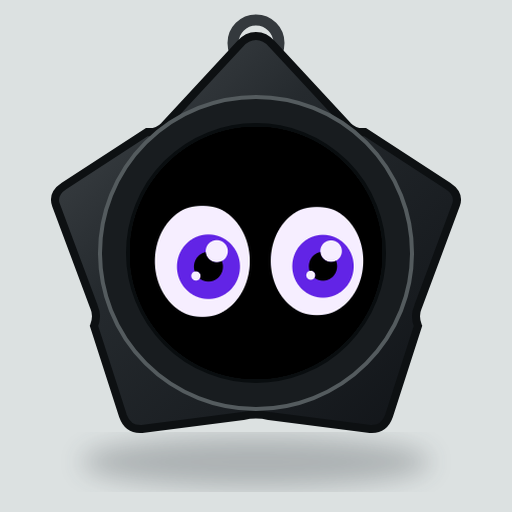
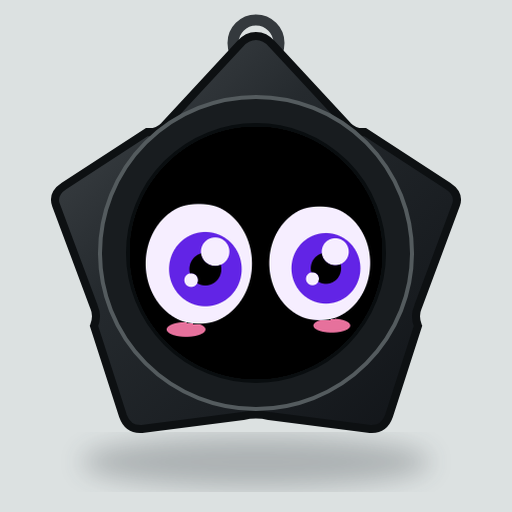
Bigger, rounder, cuter eyes
- Eyes about 13% wider and 9% taller, nearly round, set a little lower
  and closer to the bezel (safe margin 4% of the screen).
- Bigger irises and catch-lights.
- A small blush at rest that grows when happy, petted or in love and
  fades when sad or cross; cheeks sit just below the eyes.

Claude-Session: https://claude.ai/code/session_01QkMyhmNvo3MfBaVS2YuhnD

Changed region(s): [[0.2812, 0.375, 0.5312, 0.6562], [0.5312, 0.4062, 0.75, 0.6562], [0.4375, 0.4062, 0.4688, 0.4375]]

diff --git a/StarFace/StarFace/FaceConfig.h b/StarFace/StarFace/FaceConfig.h
@@ -19,21 +19,22 @@
 static constexpr uint32_t EYE_COLOR = 0xF2ECFF;     // the eyes (and catch-lights): soft lilac white
 static constexpr uint32_t PUPIL_COLOR = 0x6526E0;   // the big irises, hearts and spirals: purple
 static constexpr bool ANTI_ALIAS = true;            // smooth vector edges (false: hard pixel edges)
-// Rosy cheeks appear under the eyes when it is happy, petted or in love (the
-// one extra colour; set CHEEK_BLUSH = false for strictly two colours).
+// Rosy cheeks under the eyes: a small blush at rest that grows when it is
+// happy, petted or in love, and fades when it is sad or cross (the one extra
+// colour; set CHEEK_BLUSH = false for strictly two colours).
 static constexpr bool CHEEK_BLUSH = true;
 static constexpr uint32_t CHEEK_COLOR = 0xFF7EB0;
 
 // ---- Eye size and layout, as fractions of the screen -------------------------
 // Everything scales with the display: sizes are fractions of the smaller
 // screen side, positions are relative to the screen centre.
-static constexpr float EYE_WIDTH = 0.38f;         // width of one oval eye at rest
-static constexpr float EYE_HEIGHT = 0.45f;        // height of one oval eye at rest
-static constexpr float EYE_SPACING = 0.46f;       // centre-to-centre distance between the eyes
-static constexpr float EYE_OFFSET_Y = 0.02f;      // whole face up (-) or down (+): a little low reads younger, cuter
-static constexpr float PUPIL_SIZE = 0.70f;        // iris radius, as a fraction of the eye's half width (big = friendly)
-static constexpr float PUPIL_CORE = 0.46f;        // black centre of the iris, as a fraction of it (0 = none)
-static constexpr float GLINT_SIZE = 0.34f;        // main catch-light radius, as a fraction of the iris (0 = none)
+static constexpr float EYE_WIDTH = 0.43f;         // width of one oval eye at rest
+static constexpr float EYE_HEIGHT = 0.49f;        // height of one oval eye at rest (nearly round = cuter)
+static constexpr float EYE_SPACING = 0.49f;       // centre-to-centre distance between the eyes
+static constexpr float EYE_OFFSET_Y = 0.03f;      // whole face up (-) or down (+): a little low reads younger, cuter
+static constexpr float PUPIL_SIZE = 0.72f;        // iris radius, as a fraction of the eye's half width (big = friendly)
+static constexpr float PUPIL_CORE = 0.44f;        // black centre of the iris, as a fraction of it (0 = none)
+static constexpr float GLINT_SIZE = 0.38f;        // main catch-light radius, as a fraction of the iris (0 = none)
 static constexpr float PUPIL_LIFE = 1.0f;         // pupil dilation and fixation tremor: 0 off .. 1.5 lively
 
 // ---- Movement limits ---------------------------------------------------------
@@ -61,7 +62,7 @@ static constexpr int SCREEN_WIDTH = 240;
 static constexpr int SCREEN_HEIGHT = 240;
 // A round panel hides its corners: the eyes are then kept inside a circle.
 static constexpr bool SCREEN_IS_ROUND = true;
-static constexpr float SAFE_MARGIN = 0.065f;      // keep the eyes this far (of screen) from the edge
+static constexpr float SAFE_MARGIN = 0.04f;       // keep the eyes this far (of screen) from the edge
 
 // ---- Shake & motion sensitivity (gravity-free acceleration, m/s^2; 9.8 = 1 g) --
 // Lower SHAKE_STROKE_MS2 / SHAKE_STROKES_FOR_DIZZY if shaking feels too hard,

diff --git a/StarFace/StarFace/Eyes.cpp b/StarFace/StarFace/Eyes.cpp
@@ -233,7 +233,7 @@ void Eyes::compose() {
     float g1x = px * .55f + .34f * pr, g1y = py * .55f - .40f * pr;
     float g2x = px * .55f - .30f * pr, g2y = py * .55f + .36f * pr;
     f.glintR = GLINT_SIZE * pr * glintHide;
-    f.glint2R = .42f * GLINT_SIZE * pr * glintHide;
+    f.glint2R = .48f * GLINT_SIZE * pr * glintHide;
     // Everything inside the eye turns with the face.
     f.pupilX = px * rc - py * rs;  f.pupilY = px * rs + py * rc;
     f.glintX = g1x * rc - g1y * rs; f.glintY = g1x * rs + g1y * rc;
@@ -242,12 +242,14 @@ void Eyes::compose() {
     f.spiral = s.spiral;
     // Rosy cheeks, a little outward and under each eye; they grow in as they appear.
     const float blush = clampf(s.blush, 0.0f, 1.0f);
-    float cxo = -inward * .22f * rx, cyo = ry * .98f;
+    // They grow with the feeling (a small blush at rest, a big one when happy)
+    // and sit just below the eye, so they never hide behind it.
+    f.cheekRX = .50f * rx * (.55f + .45f * blush);
+    f.cheekRY = .19f * rx * (.55f + .45f * blush);
+    float cxo = -inward * .24f * rx, cyo = ry * 1.02f + f.cheekRY * .55f;
     f.cheekX = cxo * rc - cyo * rs;
     f.cheekY = cxo * rs + cyo * rc;
-    f.cheekRX = .52f * rx * (.6f + .4f * blush);
-    f.cheekRY = .20f * rx * (.6f + .4f * blush);
-    f.cheekAlpha = smoothstep(.05f, .6f, blush) * .85f;
+    f.cheekAlpha = smoothstep(.02f, .25f, blush) * .9f;
     f.spiralPhase = spiralPhase * side + i * 1.3f;   // the two spirals turn opposite ways
     fitToScreen(f);
   }

diff --git a/StarFace/StarFace/Expressions.cpp b/StarFace/StarFace/Expressions.cpp
@@ -15,8 +15,8 @@ struct Preset {
 #define SAME(...) {__VA_ARGS__}, {__VA_ARGS__}
 
 const Preset PRESETS[EXPRESSION_COUNT] = {
-  // NEUTRAL: big soft round eyes, wide open and attentive.
-  {SAME(0, 0, 1, 1, 0, 0, 0, 0, 0, 0, 0, 1, 0, 0, 0), 3.2f, .80f, "neutral"},
+  // NEUTRAL: big soft round eyes, wide open and attentive, a faint blush.
+  {SAME(0, 0, 1, 1, 0, 0, 0, 0, 0, 0, 0, 1, 0, 0, .4f), 3.2f, .80f, "neutral"},
   // HAPPY: closed "^" arches, rosy cheeks; the eyes lift a little.
   {SAME(0, -.04f, 1.04f, .98f, 0, 0, 0, 0, 0, .30f, .44f, 0, 0, 0, 1), 5.0f, .50f, "happy"},
   // SAD: lids slant down to the outside, the eyes sink, pupils a touch bigger.

diff --git a/StarFace/README.md b/StarFace/README.md
@@ -1,6 +1,6 @@
 # Star Face
 
-A wearable eye pet for the **Waveshare ESP32-S3-Touch-LCD-1.28**, adapted from [CREATURE's Starboy](https://hesjustalittleguy.com/) behaviors to the sensors in this board. The round 240 × 240 screen shows two big, friendly cartoon eyes on pure black: soft lilac-white ovals with large glossy purple irises, a dark centre and two catch-lights, drawn as smooth anti-aliased vector shapes (no stepped pixel edges). They react to the world through the motion sensor: they look toward the ground when tilted, stay level when the star is turned, keep looking at you when it is swung, get dizzy when it is shaken hard or spun, and startle when it is tossed. The eyes themselves carry the expressions: lids slide, slant and curve, the ovals stretch and tilt, irises dilate and tighten, turn into hearts or spin into spirals, and rosy cheeks appear when it is happy. There is no mouth. The face is drawn procedurally on the device and needs no image files, Wi-Fi, or cloud service. [Front-view preview](face-preview.svg) ([PNG](face-preview.png)).
+A wearable eye pet for the **Waveshare ESP32-S3-Touch-LCD-1.28**, adapted from [CREATURE's Starboy](https://hesjustalittleguy.com/) behaviors to the sensors in this board. The round 240 × 240 screen shows two big, friendly cartoon eyes on pure black: soft lilac-white ovals with large glossy purple irises, a dark centre and two catch-lights, drawn as smooth anti-aliased vector shapes (no stepped pixel edges). They react to the world through the motion sensor: they look toward the ground when tilted, stay level when the star is turned, keep looking at you when it is swung, get dizzy when it is shaken hard or spun, and startle when it is tossed. The eyes themselves carry the expressions: lids slide, slant and curve, the ovals stretch and tilt, irises dilate and tighten, turn into hearts or spin into spirals, and rosy cheeks grow when it is happy and fade when it is sad or cross. There is no mouth. The face is drawn procedurally on the device and needs no image files, Wi-Fi, or cloud service. [Front-view preview](face-preview.svg) ([PNG](face-preview.png)).
 
 ![Expressions rendered by the device code](face-expressions.png)
 
